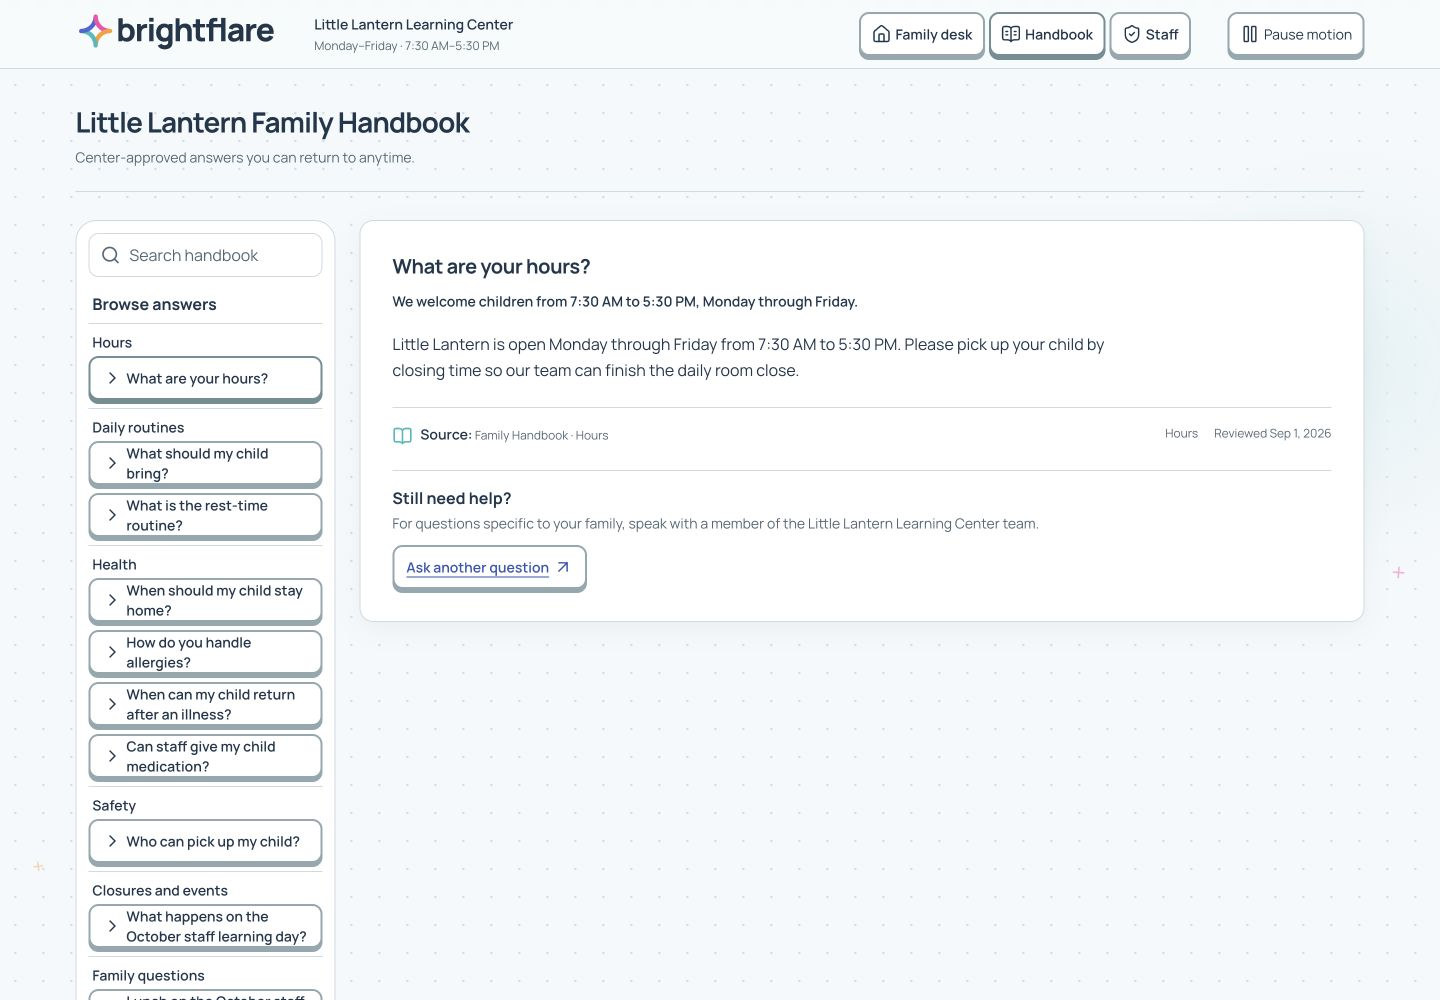
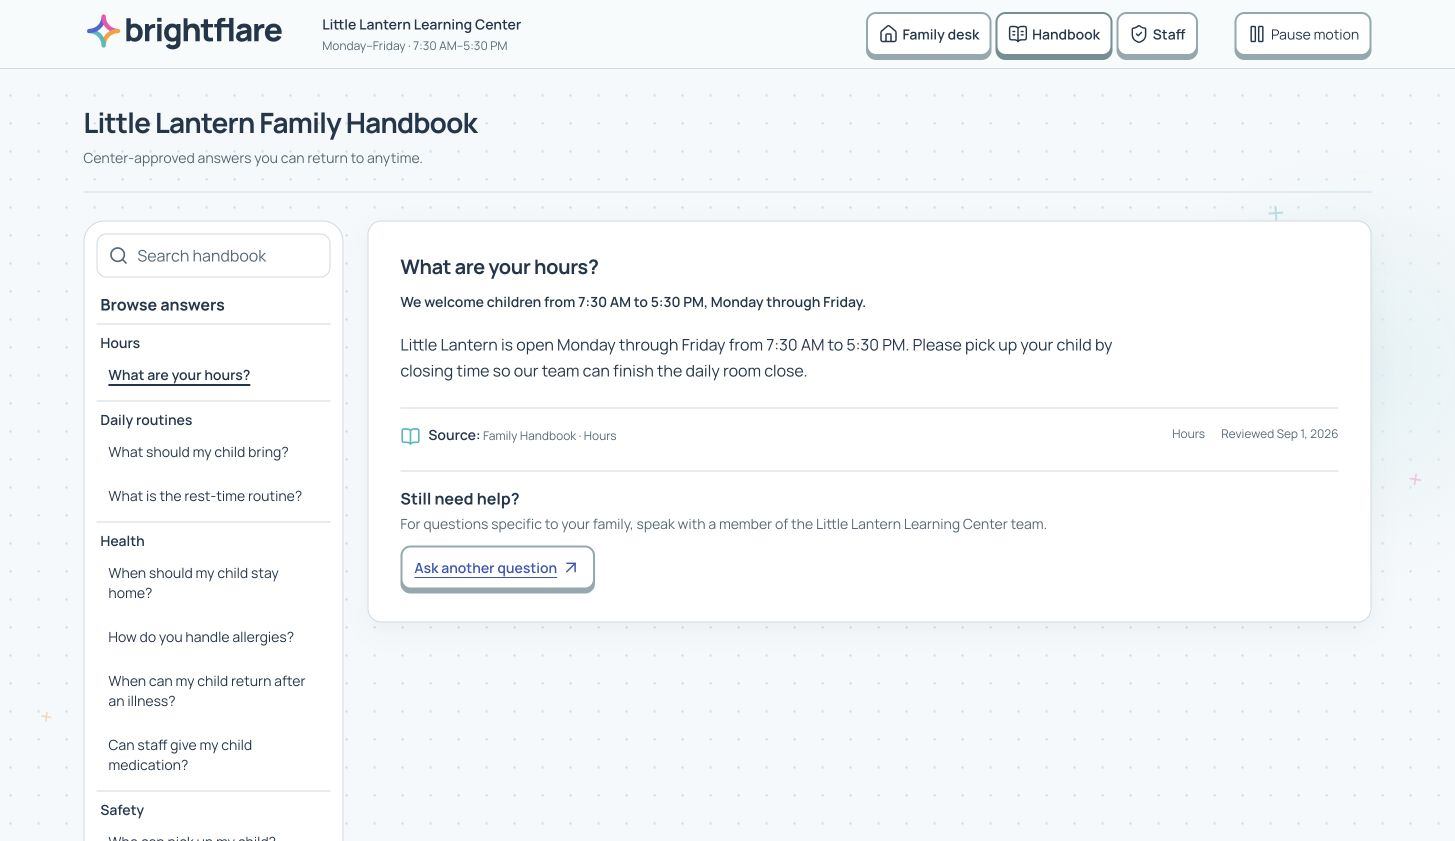
Use text links in handbook navigation

diff --git a/src/app/handbook/handbook-browser.tsx b/src/app/handbook/handbook-browser.tsx
@@ -80,13 +80,18 @@ export function HandbookBrowser({ centerName, centerHours, handbookLabel, entrie
                 <h2 className="type-panel-title mb-2 mt-4 px-1">Browse answers</h2>
                 {categoryGroups.length === 0 ? <p role="status" className="type-supporting px-1 py-3">No answers match your search.</p> : categoryGroups.map(({ category, entries: groupedEntries }) => <div key={category} className="border-t border-border py-2">
                   <h3 className="type-subheading mb-1 px-1">{category}</h3>
-                  <ul className="space-y-1">{groupedEntries.map((entry) => <li key={entry.id}>
-                    <Button asChild variant="navigation" size="sm" className="h-auto min-h-11 w-full justify-start whitespace-normal text-left">
-                      <Link href={`/handbook/${encodeURIComponent(entry.id)}`} aria-current={entry.id === selectedEntry?.id ? "page" : undefined}>
-                        <ChevronRight aria-hidden="true" className="size-5 shrink-0" />{entry.title}
+                  <ul className="space-y-1">{groupedEntries.map((entry) => {
+                    const isSelected = entry.id === selectedEntry?.id;
+                    return <li key={entry.id}>
+                      <Link
+                        href={`/handbook/${encodeURIComponent(entry.id)}`}
+                        aria-current={isSelected ? "page" : undefined}
+                        className={`block w-full rounded-md px-3 py-2 text-sm leading-5 font-normal text-foreground underline-offset-4 hover:text-[#3555b0] hover:underline focus-visible:outline focus-visible:outline-2 focus-visible:outline-offset-2 focus-visible:outline-ring ${isSelected ? "font-semibold text-[#3555b0] underline decoration-2" : ""}`}
+                      >
+                        {entry.title}
                       </Link>
-                    </Button>
-                  </li>)}</ul>
+                    </li>;
+                  })}</ul>
                 </div>)}
               </nav>
             </aside>

diff --git a/README.md b/README.md
@@ -20,7 +20,7 @@
 
 ### Family handbook
 
-![Brightflare family handbook](https://brightflare.sprioleau.dev/screenshots/handbook-desktop.png)
+![Brightflare family handbook](https://brightflare.sprioleau.dev/screenshots/handbook-desktop.png?v=text-links)
 
 These captures show the current app. Any standalone HTML style explorations are design proposals and are not part of the live interface.
 
